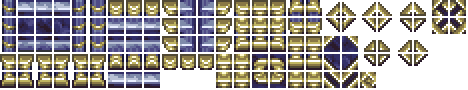
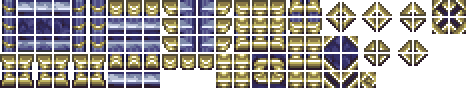
Marnite Wall and some fixes
I don't know how to fix the chest and dresser names

diff --git a/Items/Placeables/Walls/PolishedMarniteWall.cs b/Items/Placeables/Walls/PolishedMarniteWall.cs
@@ -1,0 +1,38 @@
+using CalamityMod.Items.Placeables.FurnitureMarnite;
+using CalamityMod.Walls;
+using Terraria.ID;
+using Terraria.ModLoader;
+using WallTiles = CalamityMod.Walls;
+namespace CalamityMod.Items.Placeables.Walls
+{
+    public class PolishedMarniteWall : ModItem, ILocalizedModType
+    {
+        public new string LocalizationCategory => "Items.Placeables";
+        public override void SetStaticDefaults()
+        {
+            Item.ResearchUnlockCount = 100;
+        }
+
+        public override void SetDefaults()
+        {
+            Item.width = 12;
+            Item.height = 12;
+            Item.maxStack = 9999;
+            Item.useTurn = true;
+            Item.autoReuse = true;
+            Item.useAnimation = 15;
+            Item.useTime = 7;
+            Item.useStyle = ItemUseStyleID.Swing;
+            Item.consumable = true;
+            Item.createWall = ModContent.WallType<WallTiles.PolishedMarniteWall>();
+        }
+
+        public override void AddRecipes()
+        {
+            CreateRecipe(4).
+                AddIngredient<PolishedMarniteBlock>().
+                AddTile(TileID.WorkBenches).
+                Register();
+        }
+    }
+}

diff --git a/Tiles/FurnitureMarnite/PolishedMarniteBlock.cs b/Tiles/FurnitureMarnite/PolishedMarniteBlock.cs
@@ -14,7 +14,7 @@ namespace CalamityMod.Tiles.FurnitureMarnite
             Main.tileMergeDirt[Type] = true;
             Main.tileBlockLight[Type] = true;
             TileID.Sets.HasSlopeFrames[Type] = true;
-
+            Main.tileShine[Type] = 3500;
             CalamityUtils.MergeWithGeneral(Type);
             CalamityUtils.MergeSmoothTiles(Type);
             CalamityUtils.MergeDecorativeTiles(Type);
@@ -22,7 +22,7 @@ namespace CalamityMod.Tiles.FurnitureMarnite
 
             HitSound = SoundID.Tink;
             MineResist = 2.1f;
-            AddMapEntry(new Color(49, 56, 77));
+            AddMapEntry(new Color(50, 46, 104));
         }
         public override bool TileFrame(int i, int j, ref bool resetFrame, ref bool noBreak)
         {
@@ -32,7 +32,7 @@ namespace CalamityMod.Tiles.FurnitureMarnite
 
         public override bool CreateDust(int i, int j, ref int type)
         {
-            Dust.NewDust(new Vector2(i, j) * 16f, 16, 16, DustID.Stone, 0f, 0f, 1, new Color(100, 130, 150), 1f);
+            Dust.NewDust(new Vector2(i, j) * 16f, 16, 16, DustID.Granite, 0f, 0f, 1, new Color(255, 255, 255), 1f);
             return false;
         }
     }

diff --git a/Items/Placeables/FurnitureMarnite/MarniteLight.cs b/Items/Placeables/FurnitureMarnite/MarniteLight.cs
@@ -44,12 +44,12 @@ namespace CalamityMod.Items.Placeables.FurnitureMarnite
                 Dust.NewDust(new Vector2(player.itemLocation.X + 16f * player.direction, player.itemLocation.Y - 14f * player.gravDir), 4, 4, DustID.DungeonSpirit);
             }
             Vector2 position = player.RotatedRelativePoint(new Vector2(player.itemLocation.X + 12f * player.direction + player.velocity.X, player.itemLocation.Y - 14f + player.velocity.Y), true);
-            Lighting.AddLight(position, 0.5f, 0.5f, 2f);
+            Lighting.AddLight(position, (57f / 255f), (246f / 255f), (255f / 255f));
         }
 
         public override void PostUpdate()
         {
-            Lighting.AddLight((int)((Item.position.X + Item.width / 2) / 16f), (int)((Item.position.Y + Item.height / 2) / 16f), 0.5f, 0.5f, 2f);
+            Lighting.AddLight((int)((Item.position.X + Item.width / 2) / 16f), (int)((Item.position.Y + Item.height / 2) / 16f), (57f / 255f), (246f / 255f), (255f / 255f));
         }
 
         public override void AddRecipes()

diff --git a/Walls/PolishedMarniteWall.cs b/Walls/PolishedMarniteWall.cs
@@ -1,0 +1,26 @@
+using CalamityMod.Items.Placeables.Walls;
+using Microsoft.Xna.Framework;
+using Terraria;
+using Terraria.ID;
+using Terraria.ModLoader;
+
+namespace CalamityMod.Walls
+{
+    public class PolishedMarniteWall : ModWall
+    {
+        public override void SetStaticDefaults()
+        {
+            Main.wallHouse[Type] = true;
+            HitSound = SoundID.Dig;
+            AddMapEntry(new Color(14, 9, 28));
+        }
+
+        public override void NumDust(int i, int j, bool fail, ref int num) => num = fail ? 1 : 3;
+
+        public override bool CreateDust(int i, int j, ref int type)
+        {
+            Dust.NewDust(new Vector2(i, j) * 16f, 16, 16, DustID.Granite, 0f, 0f, 1, new Color(255, 255, 255), 1f);
+            return false;
+        }
+    }
+}

diff --git a/Tiles/FurnitureMarnite/MarniteTorch.cs b/Tiles/FurnitureMarnite/MarniteTorch.cs
@@ -13,7 +13,7 @@ namespace CalamityMod.Tiles.FurnitureMarnite
 
         public override bool CreateDust(int i, int j, ref int type)
         {
-            Dust.NewDust(new Vector2(i, j) * 16f, 16, 16, DustID.Stone, 0f, 0f, 1, new Color(100, 130, 150), 1f);
+            Dust.NewDust(new Vector2(i, j) * 16f, 16, 16, DustID.Granite, 0f, 0f, 1, new Color(255, 255, 255), 1f);
             return false;
         }
 
@@ -35,9 +35,9 @@ namespace CalamityMod.Tiles.FurnitureMarnite
             Tile tile = Main.tile[i, j];
             if (tile.TileFrameX < 66)
             {
-                r = 0.6f;
-                g = 0.6f;
-                b = 2.3f;
+                r = 57f / 255f;
+                g = 246f / 255f;
+                b = 255f / 255f;
             }
         }
 

diff --git a/Tiles/FurnitureMarnite/MarniteCandelabra.cs b/Tiles/FurnitureMarnite/MarniteCandelabra.cs
@@ -11,7 +11,7 @@ namespace CalamityMod.Tiles.FurnitureMarnite
 
         public override bool CreateDust(int i, int j, ref int type)
         {
-            Dust.NewDust(new Vector2(i, j) * 16f, 16, 16, DustID.Stone, 0f, 0f, 1, new Color(100, 130, 150), 1f);
+            Dust.NewDust(new Vector2(i, j) * 16f, 16, 16, DustID.Granite, 0f, 0f, 1, new Color(255, 255, 255), 1f);
             return false;
         }
 
@@ -24,9 +24,9 @@ namespace CalamityMod.Tiles.FurnitureMarnite
         {
             if (Main.tile[i, j].TileFrameX < 18)
             {
-                r = 0.8f;
-                g = 0.9f;
-                b = 1f;
+                r = 57f / 255f;
+                g = 246f / 255f;
+                b = 255f / 255f;
             }
             else
             {

diff --git a/Tiles/FurnitureMarnite/MarniteCandle.cs b/Tiles/FurnitureMarnite/MarniteCandle.cs
@@ -11,7 +11,7 @@ namespace CalamityMod.Tiles.FurnitureMarnite
 
         public override bool CreateDust(int i, int j, ref int type)
         {
-            Dust.NewDust(new Vector2(i, j) * 16f, 16, 16, DustID.Stone, 0f, 0f, 1, new Color(100, 130, 150), 1f);
+            Dust.NewDust(new Vector2(i, j) * 16f, 16, 16, DustID.Granite, 0f, 0f, 1, new Color(255, 255, 255), 1f);
             return false;
         }
 
@@ -24,9 +24,9 @@ namespace CalamityMod.Tiles.FurnitureMarnite
         {
             if (Main.tile[i, j].TileFrameX < 18)
             {
-                r = 0.8f;
-                g = 0.9f;
-                b = 1f;
+                r = 57f / 255f;
+                g = 246f / 255f;
+                b = 255f / 255f;
             }
             else
             {

diff --git a/Tiles/FurnitureMarnite/MarniteChandelier.cs b/Tiles/FurnitureMarnite/MarniteChandelier.cs
@@ -11,7 +11,7 @@ namespace CalamityMod.Tiles.FurnitureMarnite
 
         public override bool CreateDust(int i, int j, ref int type)
         {
-            Dust.NewDust(new Vector2(i, j) * 16f, 16, 16, DustID.Stone, 0f, 0f, 1, new Color(100, 130, 150), 1f);
+            Dust.NewDust(new Vector2(i, j) * 16f, 16, 16, DustID.Granite, 0f, 0f, 1, new Color(255, 255, 255), 1f);
             return false;
         }
 
@@ -24,9 +24,9 @@ namespace CalamityMod.Tiles.FurnitureMarnite
         {
             if (Main.tile[i, j].TileFrameX < 18)
             {
-                r = 0.8f;
-                g = 0.9f;
-                b = 1f;
+                r = 57f / 255f;
+                g = 246f / 255f;
+                b = 255f / 255f;
             }
             else
             {

diff --git a/Tiles/FurnitureMarnite/MarniteLamp.cs b/Tiles/FurnitureMarnite/MarniteLamp.cs
@@ -11,7 +11,7 @@ namespace CalamityMod.Tiles.FurnitureMarnite
 
         public override bool CreateDust(int i, int j, ref int type)
         {
-            Dust.NewDust(new Vector2(i, j) * 16f, 16, 16, DustID.Stone, 0f, 0f, 1, new Color(100, 130, 150), 1f);
+            Dust.NewDust(new Vector2(i, j) * 16f, 16, 16, DustID.Granite, 0f, 0f, 1, new Color(255, 255, 255), 1f);
             return false;
         }
 
@@ -24,9 +24,9 @@ namespace CalamityMod.Tiles.FurnitureMarnite
         {
             if (Main.tile[i, j].TileFrameX < 18)
             {
-                r = 0.8f;
-                g = 0.9f;
-                b = 1f;
+                r = 57f / 255f;
+                g = 246f / 255f;
+                b = 255f / 255f;
             }
             else
             {

diff --git a/Tiles/FurnitureMarnite/MarniteLantern.cs b/Tiles/FurnitureMarnite/MarniteLantern.cs
@@ -12,7 +12,7 @@ namespace CalamityMod.Tiles.FurnitureMarnite
 
         public override bool CreateDust(int i, int j, ref int type)
         {
-            Dust.NewDust(new Vector2(i, j) * 16f, 16, 16, DustID.Stone, 0f, 0f, 1, new Color(100, 130, 150), 1f);
+            Dust.NewDust(new Vector2(i, j) * 16f, 16, 16, DustID.Granite, 0f, 0f, 1, new Color(255, 255, 255), 1f);
             return false;
         }
 
@@ -25,9 +25,9 @@ namespace CalamityMod.Tiles.FurnitureMarnite
         {
             if (Main.tile[i, j].TileFrameX < 18)
             {
-                r = 0.8f;
-                g = 0.9f;
-                b = 1f;
+                r = 57f / 255f;
+                g = 246f / 255f;
+                b = 255f / 255f;
             }
             else
             {

diff --git a/Items/Placeables/FurnitureMarnite/PolishedMarniteBlock.cs b/Items/Placeables/FurnitureMarnite/PolishedMarniteBlock.cs
@@ -34,10 +34,10 @@ namespace CalamityMod.Items.Placeables.FurnitureMarnite
                 AddIngredient(ItemID.Marble, 5).
                 AddTile(TileID.WorkBenches).
                 Register();
-            //CreateRecipe().
-            //    AddIngredient<SmoothAbyssGravelWall>(4).
-            //    AddTile(TileID.WorkBenches).
-            //    Register();
+            CreateRecipe().
+                AddIngredient<PolishedMarniteWall>(4).
+                AddTile(TileID.WorkBenches).
+                Register();
             CreateRecipe().
                 AddIngredient<PolishedMarnitePlatform>(2).
                 Register();

diff --git a/Tiles/FurnitureMarnite/MarniteChest.cs b/Tiles/FurnitureMarnite/MarniteChest.cs
@@ -17,7 +17,7 @@ namespace CalamityMod.Tiles.FurnitureMarnite
 
         public override bool CreateDust(int i, int j, ref int type)
         {
-            Dust.NewDust(new Vector2(i, j) * 16f, 16, 16, DustID.Stone, 0f, 0f, 1, new Color(100, 130, 150), 1f);
+            Dust.NewDust(new Vector2(i, j) * 16f, 16, 16, DustID.Granite, 0f, 0f, 1, new Color(255, 255, 255), 1f);
             return false;
         }
         public override bool HasSmartInteract(int i, int j, SmartInteractScanSettings settings) => true;
